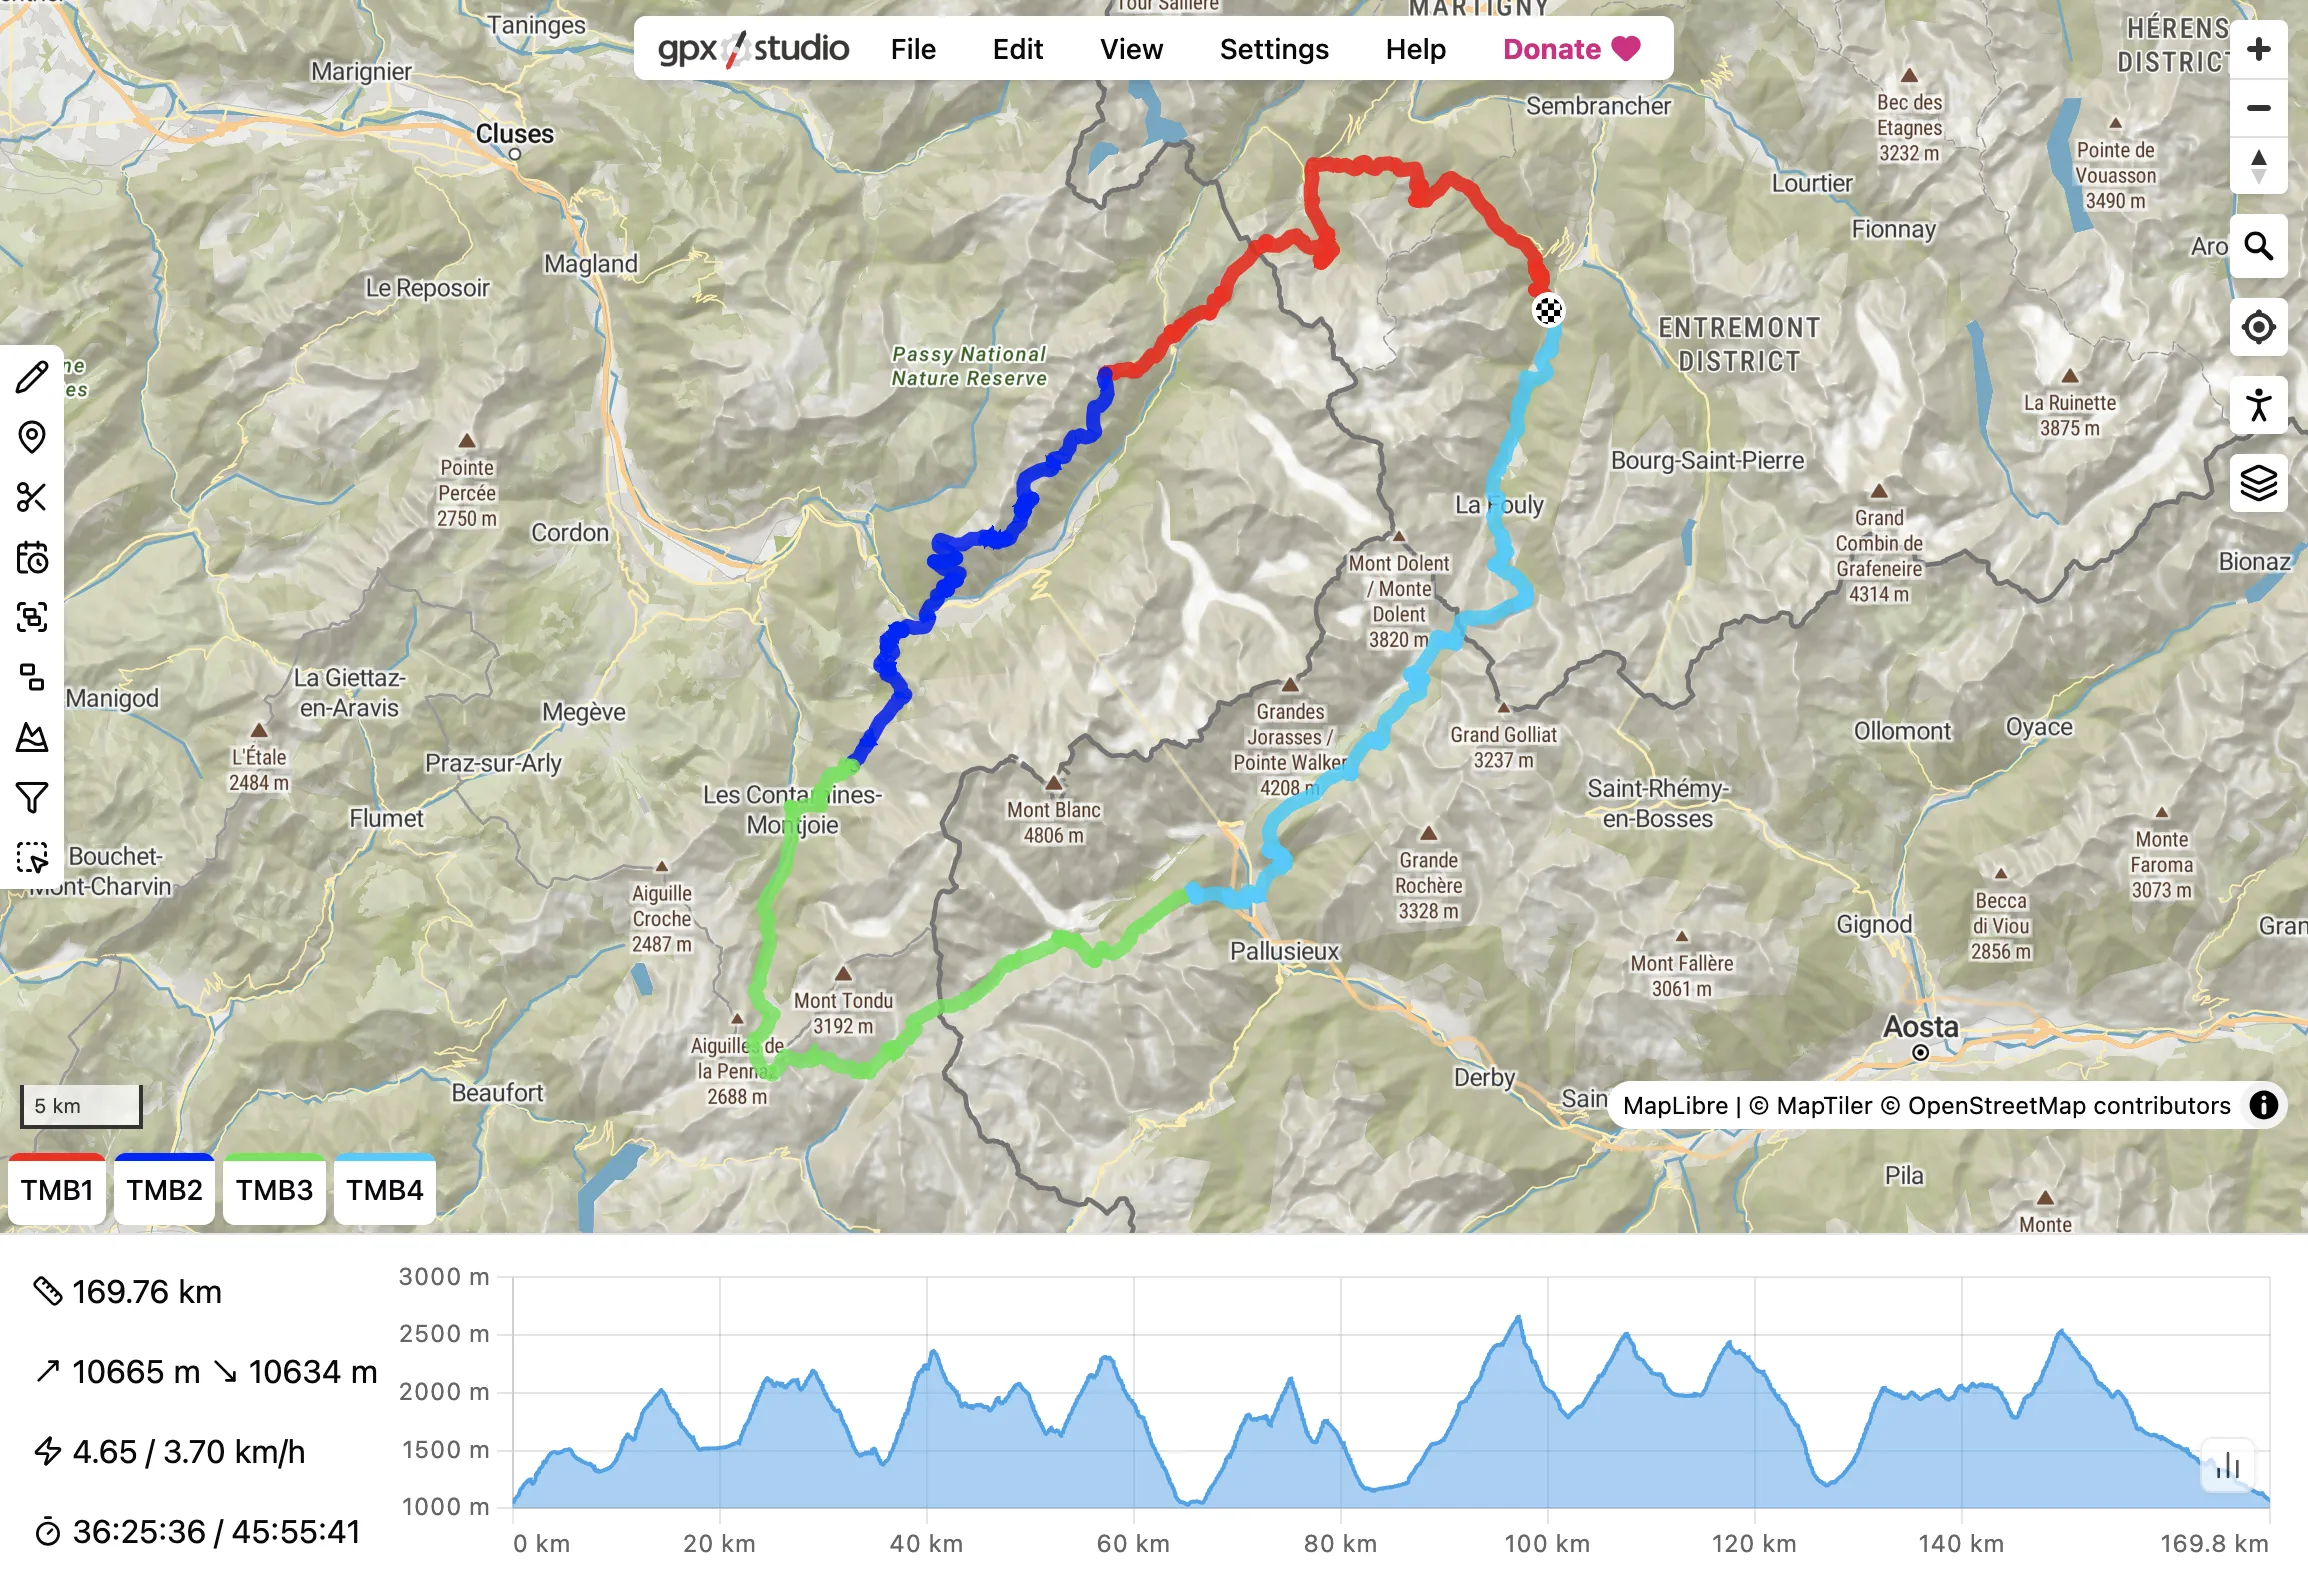
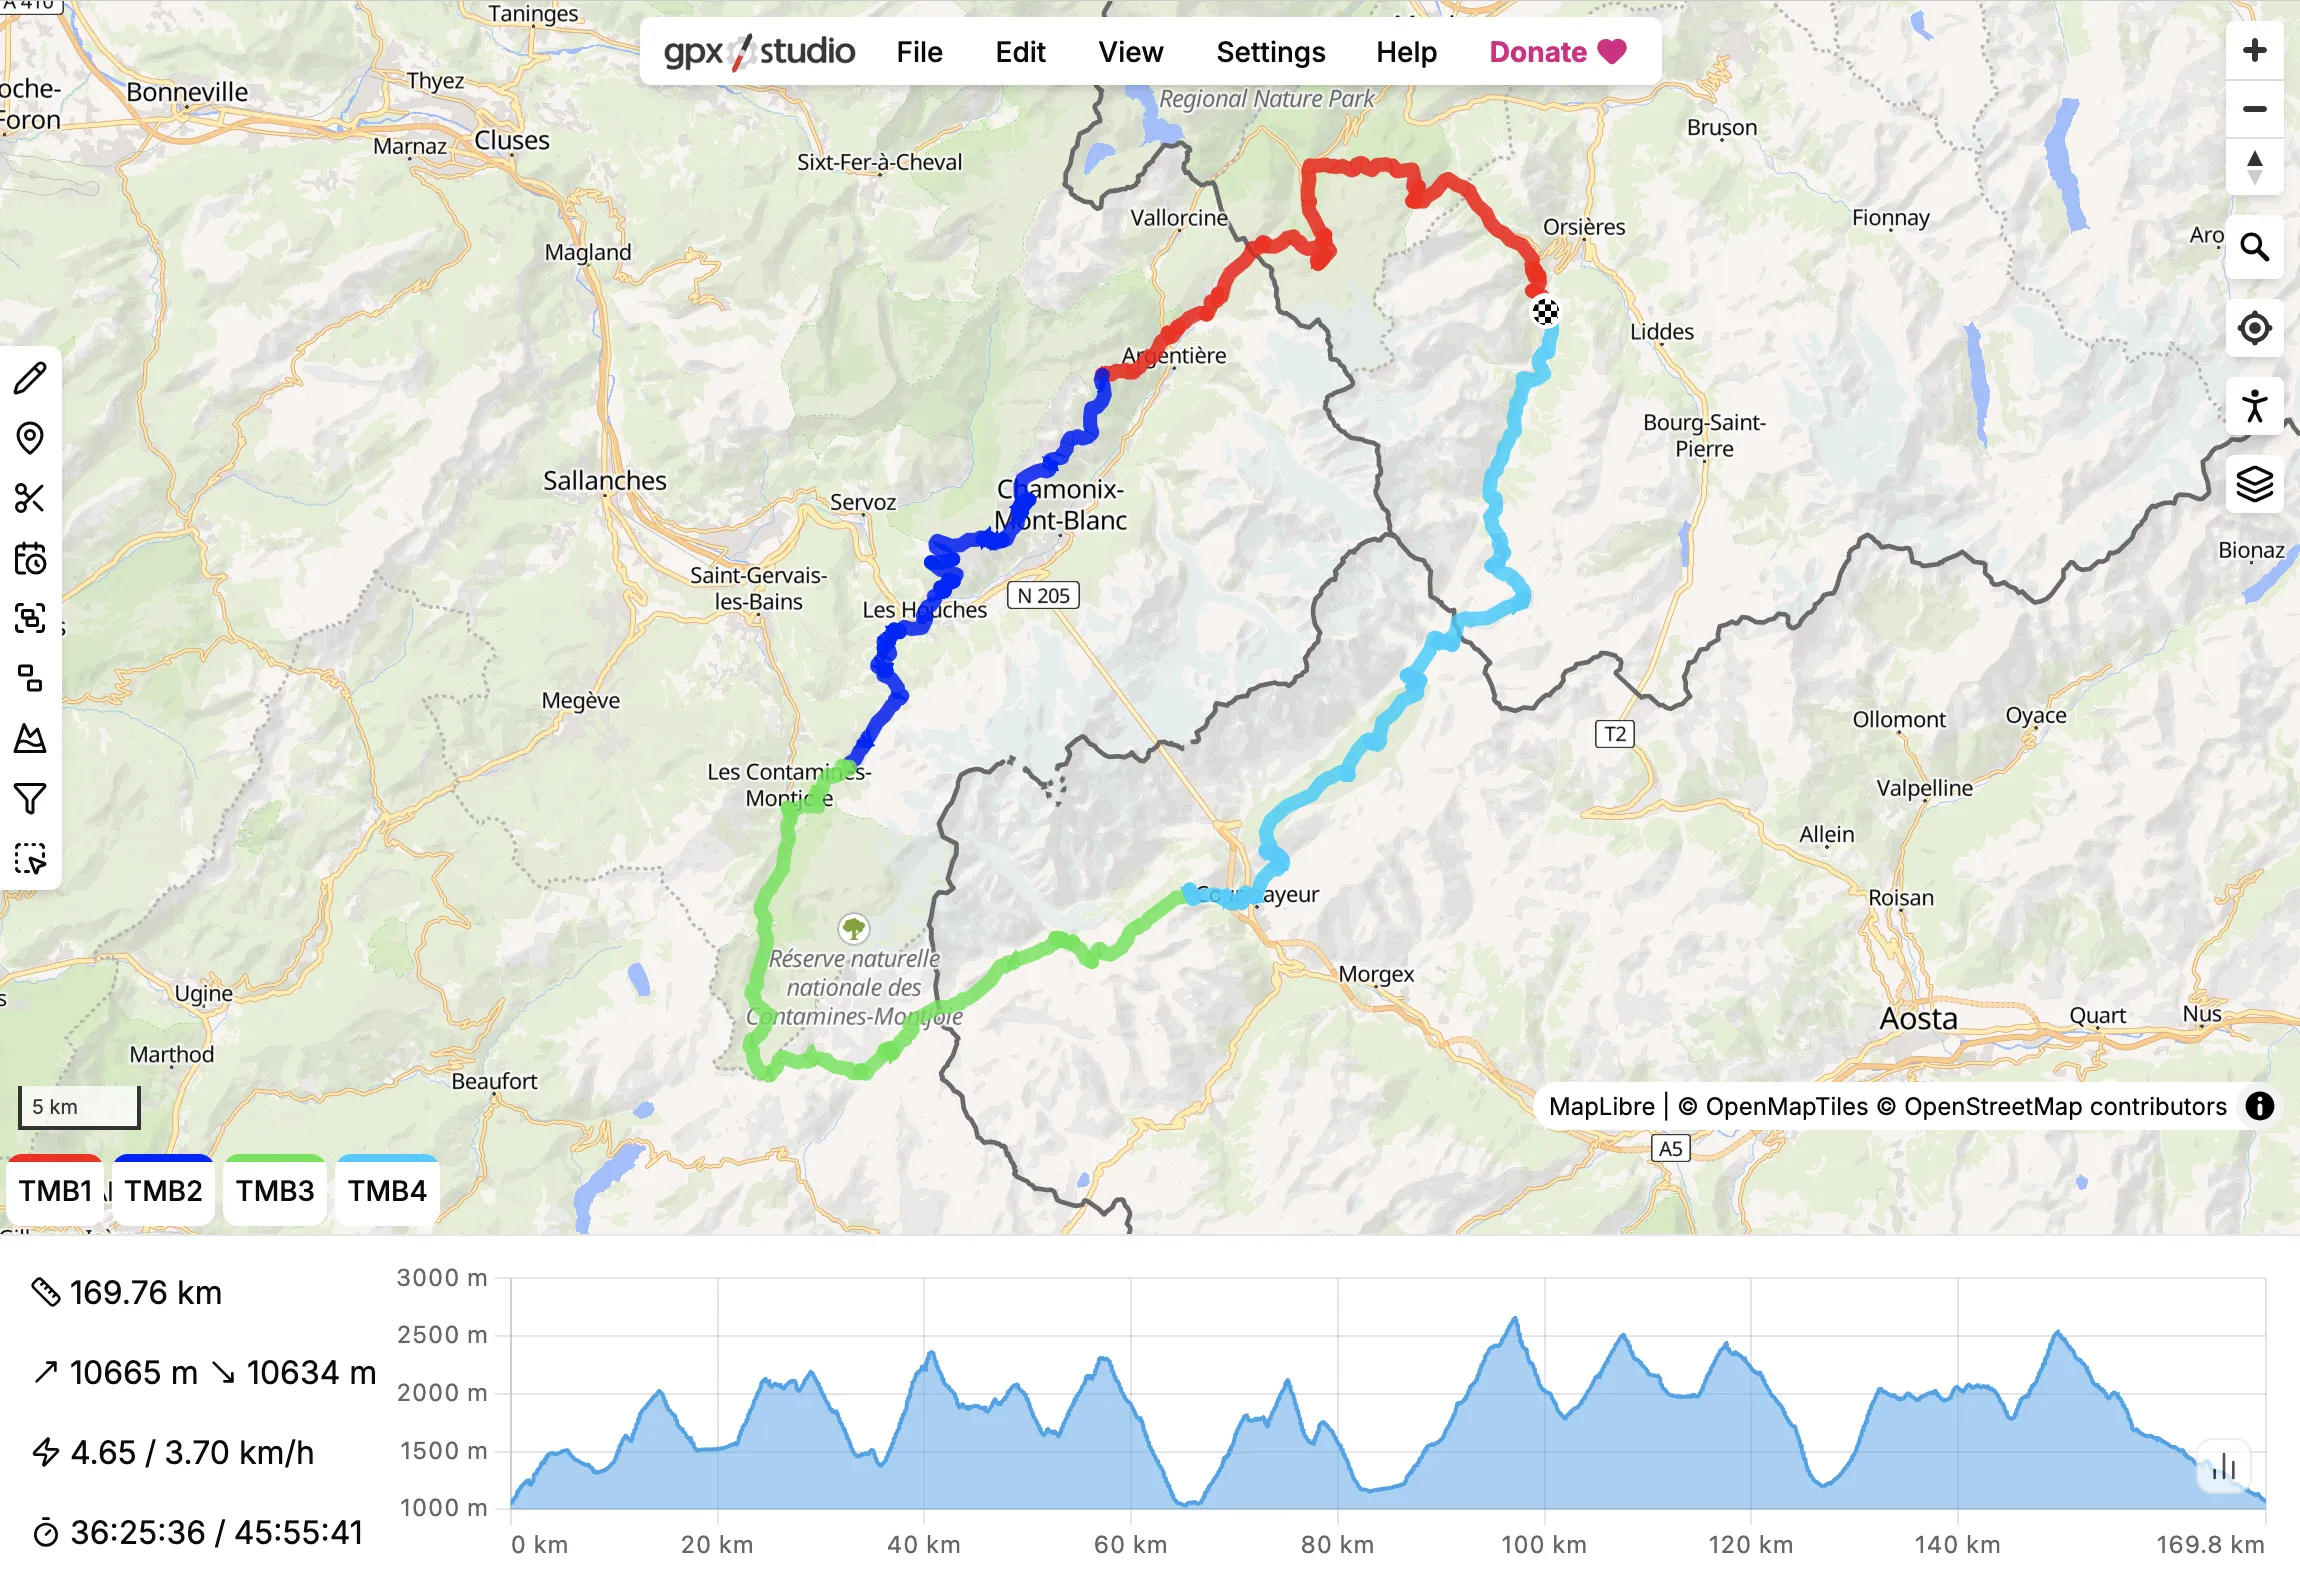
update images

diff --git a/website/src/lib/components/docs/DocsLayers.svelte b/website/src/lib/components/docs/DocsLayers.svelte
@@ -1,6 +1,6 @@
 <script lang="ts">
-    import topoMap from '$lib/assets/img/home/topo.png?enhanced';
-    import waymarkedMap from '$lib/assets/img/home/waymarked.png?enhanced';
+    import topoMap from '$lib/assets/img/docs/maps/topo.png?enhanced';
+    import waymarkedMap from '$lib/assets/img/docs/maps/waymarked.png?enhanced';
 </script>
 
 <div class="relative h-80 aspect-square rounded-2xl shadow-xl overflow-clip">